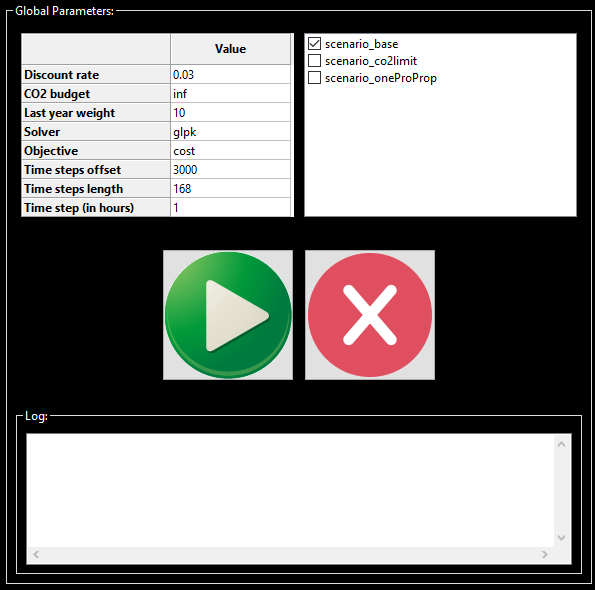
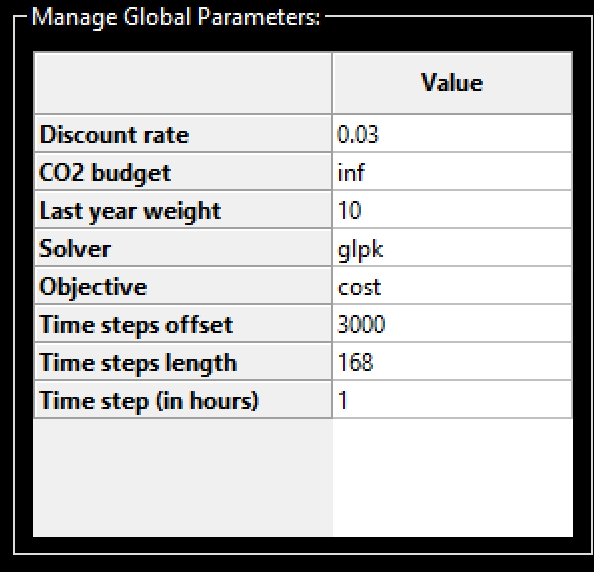
Finished doc of overview tab and commodities in RES tab. Strated Processes in RES tab

diff --git a/doc/Tab_RES.rst b/doc/Tab_RES.rst
@@ -34,7 +34,7 @@ which require different parameters to be set by the user.
 Commodities
 ~~~~~~~~~~~
 Commidities are typically, but not exclusively, energy carriers. They are
-represented by vertical lines in the RES. There aer 7 different commodity types
+represented by vertical lines in the RES. There are 7 different commodity types
 which play different roles within the energy system model and require different
 inputs.
 
@@ -44,8 +44,8 @@ of their total capacity specified by a time series associated with the SupIm
 commodity. A typical example for SupIm commodities is the capacity factor of
 renewable energy generation units. The paramter input window that opens when
 double clicking on the name or line of an existing SupIm commodity or the
-clicking leftmost symbol in the RES header for a new SupIm commodity looks like
-this:
+clicking leftmost symbol in the RES header (Solar panel) for a new SupIm
+commodity looks like this:
 
 .. image:: img_gui_tutorial/RES_Com_SupIm.png
     :width: 100%
@@ -68,7 +68,8 @@ of 10°.
 price. This price can vary with time and correspondingly price time series have
 to be specified. The paramter input window that opens when double clicking on
 the name or line of an existing buy commodity or clicking the second symbol on
-the left in the RES header for a new buy commodity looks like this:
+the left in the RES header (Shopping cart) for a new buy commodity looks like
+this:
 
 .. image:: img_gui_tutorial/RES_Com_Buy.png
     :width: 90%
@@ -92,15 +93,15 @@ output excel spredsheet. In the standard example the only buy commodity is
 called 'Grid electricity' and represents the possibility to buy electricity
 from the higher level grid.
 
-**SupIm** and **Buy** commodities are grouped in the leftmost part of the RES
-since they are typically inputs of processes rather then outputs. They are
-separated by a vertical dashed line from the other commodities.
+*SupIm* and *Buy* commodities are grouped in the leftmost part of the RES since
+they are typically inputs of processes rather then outputs. They are separated
+by a vertical dashed line from the other commodities.
 
 **Stock commodities** can also be bought at an external market albeit at a
 fixed price as opposed to buy commodities. The paramter input window that opens
 when double clicking on the name or line of an existing Stock commodity or the
-clicking leftmost symbol in the RES header for a new Stock commodity looks like
-this:
+clicking the third symbol from the left (Flame) in the RES header for a new
+Stock commodity looks like this:
 
 .. image:: img_gui_tutorial/RES_Com_Stock.png
     :width: 90%
@@ -129,6 +130,112 @@ Process section. The commodity 'Intermediate low temperature' has the sole
 purpose of preventing the process 'Ambient air cooling' from loading the
 cooling storage which would be unrealistic.
 
-**Stock commodities** are located in the middle part of the RES since they can
-be both, process inputs and outputs. They are spearated with dashed lines
-against the other commodity types. 
+*Stock commodities* are located in the middle part of the RES since they can be
+both, process inputs and outputs. They are spearated with dashed lines against
+the other commodity types.
+
+**Demand commodities** specify the commodity needs to be satisfied by the
+optimization problem. A time series defines the momentary demand for the
+commodities in each modeled time step. The paramter input window that opens
+when double clicking on the name or line of an existing Demand commodity or
+clicking the foruth symbol from the left in the RES header (Lightning) for a
+new Demand commodity looks exactly like the one for SupIm commodities. In the
+standard example there are three demand commodities 'Electricity', 'Heat' and
+'Cooling' defined for the site 'Business park'.
+
+**Sell commodities** are completely analogous to *Buy commodities* described
+above. The only difference is that they can be sold at an external market and
+not bought. Note the sign convention here: When a positive value is set in a
+sell timeseries this will lead to positive revenues. The parameter input window
+that opens when double clicking on the name or line of an existing sell
+commodity or clicking the fifth symbol on the left in the RES header (Cash bag)
+for a new sell commodity looks exactly like the one for buy commodities.
+
+**Environmental commodities** respresent system emissions. They are the only
+commodity type that is not subject to a perfect balance restriction in each
+time step ('Kirchhoff current law'). Instead they can be accumulated by the
+system operation. They may, however, lead to costs or be restricted by the
+user. The paramter input window that opens when double clicking on
+the name or line of an existing environmental commodity or clicking the sixth
+symbol on the left in the RES header (Air flow) for a new environmental
+commodity looks like the one for Stock commodities. In the standard example
+'CO2' is the only environmental commodity.
+
+*Demand*, *Sell* and *Environmental* commodities are displayed in the right
+hand side of the RES screen, since the are typically process outputs.
+Environmental commodities are strictly the rightmost ones.
+
+Processes
+~~~~~~~~~
+Processes are energy conversion units. They are in general multiple input/
+multiple output (mimo), i.e. they can have several commodities as inputs and
+several commodities as outputs. Depending on the operational state (or
+'throughput') a process consumes the inputs and gives out the outputs with a
+fixed, user defined ratio times the throughput. Both the process capacity and
+the throughput are central optimization variables for the model.
+
+The parameter input window that opens when double clicking on the rectangle
+representing an existing process or clicking the second symbol from the right
+in the RES header (gear wheels) for a new process looks like this:
+
+.. image:: img_gui_tutorial/RES_Pro_Overview.png
+    :width: 100%
+    :align: center
+
+In the top part the name of the process and the color of the process in the
+output graphs can be set. The parameter settings happen in two distinct parts.
+In the upper middle part the input and output commodities and their respective
+ratios are specified. This is done by checking the desired boxes for input and
+output commodities and then duoble clicking on the box with three dots next to
+those commodities. For each commidty then the following picture will open:
+
+.. image:: img_gui_tutorial/RES_Pro_PC.png
+    :width: 60%
+    :align: center
+
+Under the column 'Ratio(1)' you can set the desired in- output ratio for the
+process the ratios between in- and output ratios for any pair of commodities
+will then be the efficiency of the corresponding commodity conversion. The
+default value is *1* in this column. When you wish to model also part-load
+behavior os the process you have to set a numerical value in the column
+'Ratio-Min' for at least one input commodity here. This will then denote the
+corresponding ratio at the minimal allowed load point. Processes where this is
+set cannot be turned off completely but will be forced to operate between the
+minimla allowed operation point and full load in each time step. The default
+case here, however, is a flexible orperation and the default value in this
+column is *nan* accordingly.
+
+The all other inputs are to be specified in the window in the lower section of
+the process window. The parameters there are the following:
+
+* **Installed capacity (MW)** gives the capacity of the process that is already
+  istalled at the start of the modeling horizon.
+* **Lifetime of installed capacity (years)** gives the rest lifetime of the
+  installed processes in years. A process can be used in a modeled year *y*
+  still if the lifetime plus the first modeled year exceeds the next year
+  *y+1*.
+* **Minimum capacity (MW)** denotes a capacity target that has to be met by the
+  process in a given modeled year. This means that the system will build at
+  least this capacity.
+* **Maximum capacity (MW)** restricts the capacity that can be built to the
+  specified value.
+* **Maximum power gradient (1/h)** restricts the ramping of process operational
+  states, i.e. the change in the throughput variable. The value gives the
+  fraction of the total capacity that can be changed in one hour. A value of
+  *1* thus restricts the change from idle to full operational state
+  (or vice versa) to at least a duration of one hour.
+* **Minimum load fraction** gives a lower limit for the operational state of a
+  process as a fraction of the total capacity. It is only relevant for
+  processes where part-load behavior is modeled. A value here is only active
+  when 'Ratio-Min' is numerical for at least one input commodity.
+* **Investment cost (€/MW)** denotes the capacity specific investment costs for
+  the process. You should give the book value here. The program will then
+  translate this into the correct total, discounted cost within the model
+  horizon.
+* **Annual fiy costs (€/MW)** are the amout of money that has to be spent
+  annually for the operation of a process capacity. They can represent, e.g.,
+  labour costs or calendaric ageing costs.
+* **Variable costs (€/MWh)** are linked to the operation of a process and are
+  to be paid for each unit of throughput through the process. They can
+  represent anything from usage ageing to taxes.
+  

diff --git a/doc/Tab_Overview.rst b/doc/Tab_Overview.rst
@@ -10,12 +10,12 @@ The overview tab for the standard example looks the following:
     :width: 100%
     :align: center
 
-It is split into 3 main parts, all of which will be presented separately in the
+It is split into 6 main parts, all of which will be presented separately in the
 following.
 
 Manage Sites
 ^^^^^^^^^^^^
-In the left hand side the locations (sites) of the
+In the top left hand side the locations (sites) of the
 model are specified.
 
 .. image:: img_gui_tutorial/Manage_Sites.png
@@ -34,10 +34,10 @@ button.
 
 Manage Years
 ^^^^^^^^^^^^
-In the middle part of the overview tab you can manage the desired modeled years
-These years are then the support years for the intertemporal modeling. It is
-also possible to enter just one year for a non-intertemporal, single year
-optimization.
+In the bottom left hand part of the overview tab you can manage the desired
+modeled years. These years are then the support years for the intertemporal
+modeling. It is also possible to enter just one year for a non-intertemporal,
+single year optimization.
 
 .. image:: img_gui_tutorial/Manage_Years.png
     :width: 60%
@@ -52,20 +52,17 @@ by entering its name into the text line next to the *Add Year* button and
 clicking it. A modeled year can be removed by first checking the checkbox next
 to the year and then clicking the *Remove Selected Year(s)* button.
 
-Global Parameters
-^^^^^^^^^^^^^^^^^
-The right hand part of the overview tab is used to specify global parameters.
-In addition scenarios can be chosen and the optimization can be started and
-supervised.
+Manage Global Parameters
+^^^^^^^^^^^^^^^^^^^^^^^^
+The upper middle part of the overview tab is used to specify global parameters.
 
 .. image:: img_gui_tutorial/Global_Parameters.png
-    :width: 80%
+    :width: 40%
     :align: center
 
-The global parameters are set in the upper right hand part of the screen
-section. They are set by clicking on the field next to the quantity. In all
-cases except for *Solver* and *Objective* a number has to be entered. In the
-two cases singled out a drop down menu appears which offers the allowed
+The global parameters are set by clicking on the field next to the quantity. In
+all cases except for *Solver* and *Objective* a number has to be entered. In
+the two cases singled out a drop down menu appears which offers the allowed
 choices. The parameters are:
 
 * **Discount rate**: This value gives the discount rate that is used for
@@ -103,12 +100,44 @@ choices. The parameters are:
   series. With this global parameter you can specify how long each entry of a
   time series is in hours.
 
-On the top right hand side of this section scenarios can be specified. These
+Manage plot periods
+^^^^^^^^^^^^^^^^^^^
+To the right of the global parameters the plot periods can be defined. This is
+necessary since standard graphs become large and difficult to read if the
+optimization horizon is much longer than a week. The corresponding section on
+the screen looks like the following: 
+
+.. image:: img_gui_tutorial/Plot_periods.png
+    :width: 60%
+    :align: center
+
+You can add new plot periods by specifying a name in the text field in the top
+section of the sub-window and then clicking the 'Add Period' button. The
+corresponding period will then appear in the lower section of the sub-window.
+You then have to specify the strating time step and the duration in the columns
+denoted 'Offset' and 'Length', respectively. For removing a plot period check
+the checkbox and then click the 'Remove Selcted Period(s)' button in the top
+section of the sub-window.
+
+Scenarios
+^^^^^^^^^
+In the upper right hand section of the screen scenarios can be specified. These
 refer to variations in the input parameters which can be specified in functions
 in the subfolder 'urbs' in file 'scenarios.py'. A few standard examples are
-listed already and can be chosen by chacking the boxes next to their names.
+listed already and can be chosen by checking the boxes next to their names.
 
-The lower part of this screen section is dedicated to model running and
+.. image:: img_gui_tutorial/Scenarios.png
+    :width: 20%
+    :align: center
+
+Model running and supervision
+^^^^^^^^^^^^^^^^^^^^^^^^^^^^^
+The lower right hand part of the screen is dedicated to model running and
 supervision. With the 'Play' button a model run is started and can be
 interrupted with the red 'Stop' button. The lower section displays the log file
-of the model run.   
+of the model run.
+
+.. image:: img_gui_tutorial/Running.png
+    :width: 100%
+    :align: center
+ 
